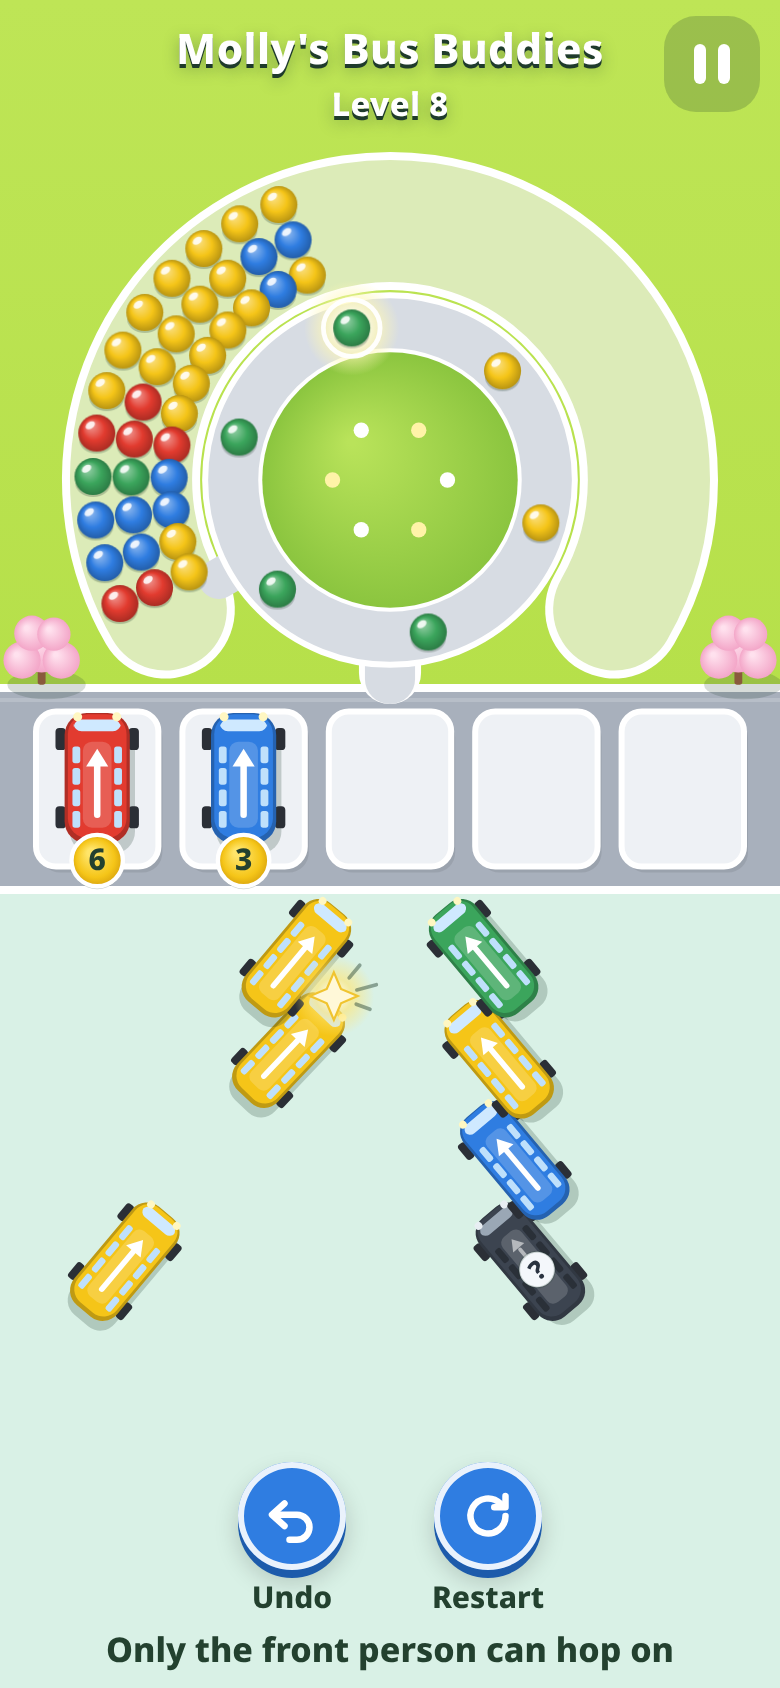
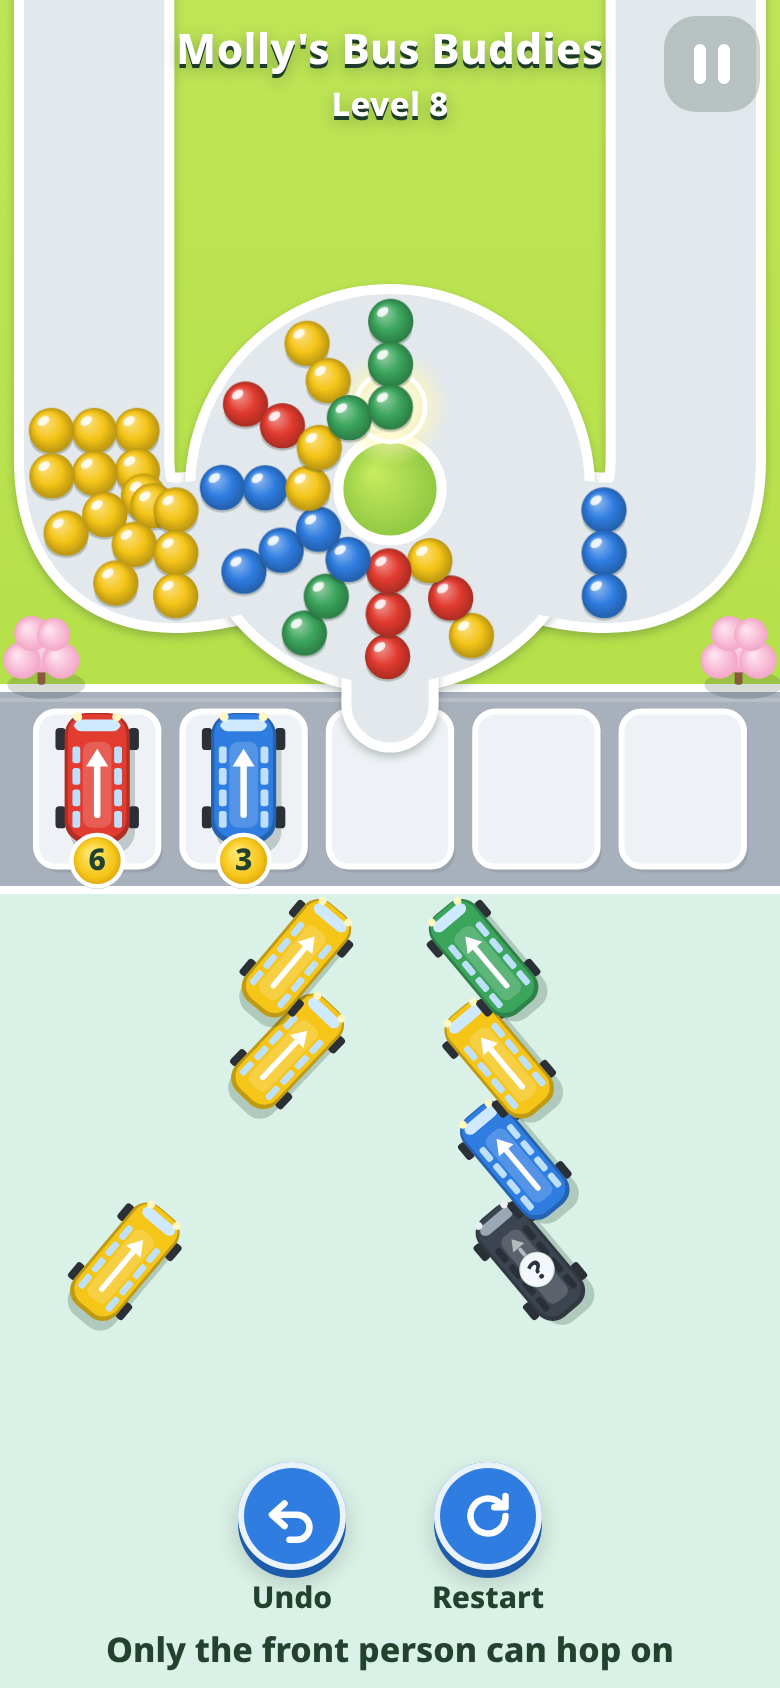
Feeder and ring look like the original: two side feeders, 3-wide track, radial rows, exit to bays; SW cache v3

Changed region(s): [[0.0, 0.0, 0.9846, 0.4313], [0.3692, 0.5545, 0.4923, 0.6161], [0.3077, 0.6161, 0.3385, 0.6777]]

diff --git a/js/render.js b/js/render.js
@@ -45,28 +45,50 @@ export function computeLayout(w, h, insets, peopleCount = 30) {
     L.car = { x: pw + 10, y: st + 74, w: w - pw - 20 - insets.right, h: h - st - 74 - ctrlH };
     L.hudBottom = st + 80;
   }
-  // Loop + queue geometry inside the grass band.
+  // Feeder + ring geometry inside the grass band, after the reference video: two
+  // feeder channels come down from the top edge on the left and right, curve in like
+  // a big U and merge into a thick ring (three people wide) round a small grass hole.
+  // The ring opens at the bottom onto the bay road.
   const g = L.grass;
-  const top = L.hudBottom + 4;
-  const bottom = g.y + g.h - 10;
-  const Ruo = Math.max(70, Math.min(g.w / 2 - 30, (bottom - top - 16) / 1.5));
-  const br = clamp(Ruo * 0.058, 5, 13);
-  const laneW = br * 2.05;
-  const lanes = 3;              // people stand three abreast in the queue channel
-  const step = br * 2.05;       // spacing between ranks along the channel
+  const top = L.hudBottom + 2;
+  const bottom = g.y + g.h - 4;
+  const Ro = clamp(Math.min((bottom - top) / 2, g.w * 0.25), 70, 200);
+  const trackW = Ro * 0.72; // small hole, thick ring, as in the reference
+  const Ri = Ro - trackW;
+  const lanes = 3;
+  const laneW = (trackW - 6) / lanes;
+  const br = clamp(laneW * 0.53, 5, 24); // packed shoulder to shoulder, like the reference crowd
+  const step = laneW;
   const cx = g.x + g.w / 2;
-  const cy = top + Ruo;
-  const RuIn = Ruo - lanes * laneW - 4;
-  const trackW = br * 2.7;
-  const R = RuIn - 8 - trackW / 2;
-  L.island = { cx, cy, R, islandR: R - trackW / 2 - 2, trackW, Ruo, RuIn, lanes, laneW };
+  const cy = bottom - Ro;
+  const Rm = (Ro + Ri) / 2;
+  L.island = { cx, cy, Ro, Ri, Rm, trackW, lanes, laneW, R: Rm, islandR: Ri };
   L.br = br; L.step = step;
-  L.door = { x: cx, y: cy + R };
+  // ring lanes: inner to outer; ranks are spaced so the inner lane is packed
+  L.ringR = [0, 1, 2].map((k) => Ri + 3 + laneW * (k + 0.5));
+  L.ringStepDeg = (step / L.ringR[0]) * (180 / Math.PI);
+  L.door = { x: cx, y: cy + Ro - laneW * 0.4 };
   L.laneBottom = { x: cx, y: L.road.y + 6 };
-  // Queue ranks follow the horseshoe from 8 o'clock (150°) clockwise over the top to 4 o'clock (390°).
-  const midR = (RuIn + 2 + Ruo - 2) / 2;
-  L.queueRanks = Math.floor((rad(240) * midR) / step);
-  L.queueGeom = { cx, cy, r0: RuIn + 2 + laneW / 2, midR };
+  // Feeder arms. Centre line from where it meets the ring back up past the top edge.
+  const armW = trackW;
+  const spread = Math.min(g.w / 2 - armW / 2 - 12, Ro * 2.05);
+  L.arms = [-1, 1].map((side) => {
+    const a = rad(side < 0 ? 160 : 20);
+    const J = { x: cx + Rm * Math.cos(a), y: cy + Rm * Math.sin(a) };
+    const inward = { x: -Math.cos(a), y: -Math.sin(a) };
+    const A = { x: cx + side * spread, y: cy - Ro * 0.15 };
+    const k = Math.hypot(A.x - J.x, A.y - J.y) * 0.55;
+    const P1 = { x: J.x - inward.x * k, y: J.y - inward.y * k }, P2 = { x: A.x, y: A.y + k };
+    const pts = [];
+    for (let i = 0; i <= 40; i++) {
+      const u = i / 40, v = 1 - u;
+      pts.push({ x: v * v * v * J.x + 3 * v * v * u * P1.x + 3 * v * u * u * P2.x + u * u * u * A.x, y: v * v * v * J.y + 3 * v * v * u * P1.y + 3 * v * u * u * P2.y + u * u * u * A.y });
+    }
+    pts.push({ x: A.x, y: g.y - 900 });
+    const cum = [0];
+    for (let i = 1; i < pts.length; i++) cum.push(cum[i - 1] + Math.hypot(pts[i].x - pts[i - 1].x, pts[i].y - pts[i - 1].y));
+    return { side, pts, cum, J, A, w: armW };
+  });
   // Bays
   const rd = L.road;
   const usable = rd.w - 24;
@@ -101,19 +123,31 @@ export function slotPos(L, slotId) {
   return { x: L.car.x + s.x * L.car.w, y: L.car.y + s.y * L.car.h, angle: s.angle };
 }
 
-export function queuePoint(L, i) {
-  const { cx, cy, r0, midR } = L.queueGeom;
-  const lanes = L.island.lanes;
-  let rank = Math.floor(i / lanes), lane = i % lanes;
-  if (rank >= L.queueRanks) { rank = L.queueRanks - 1; lane = lanes - 1; }
-  const a = rad(150 + 1.2 + ((rank + 0.5) * L.step * 180) / (Math.PI * midR));
-  const r = r0 + lane * L.island.laneW;
-  return { x: cx + r * Math.cos(a), y: cy + r * Math.sin(a) };
+/** Point at distance s back from the ring along an arm's centre line, offset sideways. */
+function armXY(arm, s, off) {
+  const { pts, cum } = arm;
+  let i = 1;
+  while (i < pts.length - 1 && cum[i] < s) i++;
+  const a = pts[i - 1], b = pts[i];
+  const seg = cum[i] - cum[i - 1] || 1;
+  const u = clamp((s - cum[i - 1]) / seg, 0, 1);
+  const dx = (b.x - a.x) / seg, dy = (b.y - a.y) / seg;
+  return { x: a.x + (b.x - a.x) * u - dy * off, y: a.y + (b.y - a.y) * u + dx * off };
 }
 
-export function loopXY(L, angleDeg) {
-  const { cx, cy, R } = L.island;
-  return { x: cx + R * Math.cos(rad(angleDeg)), y: cy + R * Math.sin(rad(angleDeg)) };
+/** Where the j-th waiting person in a feeder arm stands (0 = front, nearest the ring). */
+export function queuePoint(L, arm, j) {
+  const A = L.arms[arm];
+  const rank = Math.floor(j / L.island.lanes), lane = j % L.island.lanes;
+  const off = (lane - 1) * L.island.laneW * A.side * -1;
+  // the front rank stands just outside the ring wall, ready to step on
+  return armXY(A, L.island.trackW * 0.5 + 4 + (rank + 0.5) * L.step, off);
+}
+
+/** A point on the ring at a given radius (default: the middle lane). */
+export function loopXY(L, angleDeg, r = L.ringR[1]) {
+  const { cx, cy } = L.island;
+  return { x: cx + r * Math.cos(rad(angleDeg)), y: cy + r * Math.sin(rad(angleDeg)) };
 }
 
 /** Hit test parked buses: returns id of the closest bus whose (expanded) body contains the point. */
@@ -380,42 +414,31 @@ export function drawBackground(ctx, L) {
     ctx.fillStyle = P.bay; roundRect(ctx, b.x, b.y, b.w, b.h, 10); ctx.fill();
     ctx.lineWidth = 3; ctx.strokeStyle = P.bayStroke; ctx.stroke();
   }
-  // island, loop track, queue channel, boarding lane
-  const { cx, cy, R, islandR, trackW, Ruo, RuIn } = L.island;
-  // lane
-  ctx.fillStyle = "#ffffff";
-  const lw = trackW + 6;
-  roundRect(ctx, cx - lw / 2, cy + R - 4, lw, L.laneBottom.y - (cy + R) + 4, lw / 2); ctx.fill();
-  ctx.fillStyle = "#D7DCE3";
-  roundRect(ctx, cx - trackW / 2, cy + R, trackW, L.laneBottom.y - (cy + R), trackW / 2); ctx.fill();
-  // queue channel (horseshoe from 150° to 30° over the top)
-  ctx.lineCap = "round";
-  ctx.strokeStyle = "#ffffff"; ctx.lineWidth = Ruo - RuIn + 8;
-  ctx.beginPath(); ctx.arc(cx, cy, (Ruo + RuIn) / 2, rad(150), rad(390)); ctx.stroke();
-  ctx.strokeStyle = P.channel; ctx.lineWidth = Ruo - RuIn;
-  ctx.beginPath(); ctx.arc(cx, cy, (Ruo + RuIn) / 2, rad(150), rad(390)); ctx.stroke();
-  // short join from queue front to the loop at 8 o'clock
-  ctx.strokeStyle = "#D7DCE3"; ctx.lineWidth = trackW * 0.8;
-  ctx.beginPath();
-  ctx.moveTo(cx + RuIn * Math.cos(rad(150)), cy + RuIn * Math.sin(rad(150)));
-  ctx.lineTo(cx + R * Math.cos(rad(150)), cy + R * Math.sin(rad(150))); ctx.stroke();
-  // loop track
-  ctx.strokeStyle = "#ffffff"; ctx.lineWidth = trackW + 6;
-  ctx.beginPath(); ctx.arc(cx, cy, R, 0, Math.PI * 2); ctx.stroke();
-  ctx.strokeStyle = "#D7DCE3"; ctx.lineWidth = trackW;
-  ctx.beginPath(); ctx.arc(cx, cy, R, 0, Math.PI * 2); ctx.stroke();
-  // island
-  const ig = ctx.createRadialGradient(cx - islandR * 0.3, cy - islandR * 0.3, 2, cx, cy, islandR);
-  ig.addColorStop(0, "#B9E35A"); ig.addColorStop(1, P.grassDeep);
-  ctx.fillStyle = ig; ctx.beginPath(); ctx.arc(cx, cy, islandR, 0, Math.PI * 2); ctx.fill();
-  // small flower bed on the island
-  for (let i = 0; i < 6; i++) {
-    const a = (i / 6) * Math.PI * 2;
-    ctx.fillStyle = i % 2 ? "#fff3a8" : "#ffffff";
-    ctx.beginPath(); ctx.arc(cx + Math.cos(a) * islandR * 0.45, cy + Math.sin(a) * islandR * 0.45, Math.max(2, islandR * 0.06), 0, Math.PI * 2); ctx.fill();
-  }
+  // feeder arms + ring + exit stub, drawn as one shape: white walls first, then the floor
+  const { cx, cy, Ro, Ri, Rm, trackW } = L.island;
+  const paths = (c) => {
+    for (const arm of L.arms) {
+      c.beginPath(); c.moveTo(arm.pts[0].x, arm.pts[0].y);
+      for (const q of arm.pts) c.lineTo(q.x, q.y);
+      c.lineWidth = arm.w + c.__extra; c.stroke();
+    }
+    c.beginPath(); c.arc(cx, cy, Rm, 0, Math.PI * 2); c.lineWidth = trackW + c.__extra; c.stroke();
+    c.beginPath(); c.moveTo(cx, cy + Rm); c.lineTo(cx, L.laneBottom.y); c.lineWidth = trackW * 0.55 + c.__extra; c.stroke();
+  };
+  ctx.save();
+  ctx.lineCap = "round"; ctx.lineJoin = "round";
+  ctx.shadowColor = "rgba(31,59,44,.28)"; ctx.shadowBlur = 8; ctx.shadowOffsetY = 4;
+  ctx.strokeStyle = "#FFFFFF"; ctx.__extra = 10; paths(ctx);
+  ctx.shadowColor = "transparent";
+  ctx.strokeStyle = "#E3E8EC"; ctx.__extra = 0; paths(ctx);
+  ctx.restore();
+  // the hole in the middle of the ring: grass with a white rim
+  ctx.fillStyle = "#FFFFFF"; ctx.beginPath(); ctx.arc(cx, cy, Ri + 1, 0, Math.PI * 2); ctx.fill();
+  const ig = ctx.createRadialGradient(cx - Ri * 0.3, cy - Ri * 0.3, 2, cx, cy, Ri);
+  ig.addColorStop(0, "#C4EA5E"); ig.addColorStop(1, P.grassDeep);
+  ctx.fillStyle = ig; ctx.beginPath(); ctx.arc(cx, cy, Ri - 4, 0, Math.PI * 2); ctx.fill();
   // blossom trees at each end of the road
-  const ts = clamp(Math.min(L.road.h * 0.26, (rd.w / 2 - Ruo) * 0.7), 12, 40);
+  const ts = clamp(Math.min(L.road.h * 0.26, (rd.w / 2 - Ro) * 0.25), 12, 40);
   drawTree(ctx, rd.x + ts * 0.85, rd.y - ts * 0.7, ts);
   drawTree(ctx, rd.x + rd.w - ts * 0.85, rd.y - ts * 0.7, ts);
 }

diff --git a/js/main.js b/js/main.js
@@ -47,25 +47,42 @@ let loseTimer = 0;
 
 const busy = () => D.events.length > 0 || D.flyers.length > 0 || D.ghosts.some((g) => g.kind === "toBay");
 
+// The ring: people walk three abreast as one crowd, the front rank leading clockwise.
+function ringSpacing(n) { return Math.min(L.ringStepDeg, 360 / Math.max(1, Math.ceil(n / 3))); }
 function loopTarget(i, n) {
-  const sp = 360 / Math.max(n, 1);
-  return 90 - sp * (i + 0.5) + D.phase;
+  return { a: 90 - ringSpacing(n) * (Math.floor(i / 3) + 0.5) + D.phase, r: L.ringR[i % 3] };
+}
+
+// The queue waits in two feeder arms like the reference: colour groups take turns,
+// first group on the left, next on the right, and so on (stable for the whole level).
+let armOfIndex = [];
+function computeArms(level) {
+  armOfIndex = []; let arm = 0;
+  level.queue.forEach((c, i) => { if (i > 0 && c !== level.queue[i - 1]) arm = 1 - arm; armOfIndex.push(arm); });
+}
+function queueTargets() {
+  const n = [0, 0];
+  return D.queue.map((p) => queuePoint(L, p.arm, n[p.arm]++));
 }
 
 function rebuildDisplay() {
   const s = session.state;
-  D.queue = s.queue.map(person);
+  computeArms(session.level);
+  const offset = session.level.queue.length - s.queue.length;
+  D.queue = s.queue.map((c, i) => ({ ...person(c), arm: armOfIndex[offset + i] ?? 0 }));
   D.loop = s.loop.map(person);
   D.persons = new Map();
-  D.queue.forEach((p, i) => { const q = queuePoint(L, i); D.persons.set(p.pid, { mode: "q", x: q.x, y: q.y, a: 0 }); });
-  D.loop.forEach((p, i) => { const a = loopTarget(i, D.loop.length); const q = loopXY(L, a); D.persons.set(p.pid, { mode: "l", x: q.x, y: q.y, a }); });
+  const qt = queueTargets();
+  D.queue.forEach((p, i) => { const q = qt[i]; D.persons.set(p.pid, { mode: "q", x: q.x, y: q.y, a: 0, r: 0 }); });
+  D.loop.forEach((p, i) => { const t = loopTarget(i, D.loop.length); const q = loopXY(L, t.a, t.r); D.persons.set(p.pid, { mode: "l", x: q.x, y: q.y, a: t.a, r: t.r }); });
   D.bays = s.bays.map((b) => (b ? { id: b.id, colour: b.colour, capacity: b.capacity, filled: b.filled, pending: 0 } : null));
   D.ghosts = []; D.flyers = []; D.events = []; D.pendingSettle = false;
 }
 
 function snapPositions() {
-  D.queue.forEach((p, i) => { const q = queuePoint(L, i); Object.assign(D.persons.get(p.pid), { x: q.x, y: q.y }); });
-  D.loop.forEach((p, i) => { const per = D.persons.get(p.pid); per.a = loopTarget(i, D.loop.length); Object.assign(per, loopXY(L, per.a)); });
+  const qt = queueTargets();
+  D.queue.forEach((p, i) => { Object.assign(D.persons.get(p.pid), { x: qt[i].x, y: qt[i].y }); });
+  D.loop.forEach((p, i) => { const per = D.persons.get(p.pid); const t = loopTarget(i, D.loop.length); per.a = t.a; per.r = t.r; Object.assign(per, loopXY(L, per.a, per.r)); });
 }
 
 // ---------------- layout / resize ----------------
@@ -115,6 +132,7 @@ function step(now, dt) {
       const p = D.queue.shift(); D.loop.push(p);
       const per = D.persons.get(p.pid); per.mode = "l";
       per.a = (Math.atan2(per.y - L.island.cy, per.x - L.island.cx) * 180) / Math.PI;
+      per.r = Math.hypot(per.y - L.island.cy, per.x - L.island.cx);
       D.nextAt = now + T.enter * speed;
     } else if (e.type === "board") {
       if (arriving) break;
@@ -153,17 +171,20 @@ function step(now, dt) {
   D.ghosts = D.ghosts.filter((g) => !g.done);
   // people glide towards their places
   const k = RM() ? 1 : 1 - Math.exp(-dt * 9);
+  const qt = queueTargets();
   D.queue.forEach((p, i) => {
-    const per = D.persons.get(p.pid); const q = queuePoint(L, i);
+    const per = D.persons.get(p.pid); const q = qt[i];
     per.x += (q.x - per.x) * k; per.y += (q.y - per.y) * k;
   });
-  const n = D.loop.length, sp = 360 / Math.max(n, 1);
+  const n = D.loop.length, sp = ringSpacing(n);
   D.loop.forEach((p, i) => {
     const per = D.persons.get(p.pid);
-    let delta = (((loopTarget(i, n) - per.a) % 360) + 360) % 360;
+    const tg = loopTarget(i, n);
+    let delta = (((tg.a - per.a) % 360) + 360) % 360;
     if (delta > 360 - 0.75 * sp) delta -= 360;
     per.a += delta * k;
-    const q = loopXY(L, per.a);
+    per.r += (tg.r - per.r) * k;
+    const q = loopXY(L, per.a, per.r);
     per.x = q.x; per.y = q.y;
   });
   // confetti

diff --git a/sw.js b/sw.js
@@ -1,6 +1,6 @@
 // Molly's Bus Buddies service worker: versioned precache, cache-first, offline navigation.
 // Bump VERSION whenever any cached file changes. Regenerate the list with: node tools/write-sw.mjs
-const VERSION = "bus-buddies-v2";
+const VERSION = "bus-buddies-v3";
 const PRECACHE = [
   "./",
   "index.html",

diff --git a/tools/solver-report.md b/tools/solver-report.md
@@ -1,23 +1,23 @@
 # Solver report
 
-Generated by `node tools/solve.mjs` on 26 November 2026 at 21:37 (Europe/London). Rules: v2 (front-of-queue boarding, directional blocking, mystery buses, out-of-room loss). C colours, B buses, D blocking depth, BP fewest bays needed at once, Mys mystery buses, Q colour changes in the queue, M moves.
+Generated by `node tools/solve.mjs` on 26 November 2026 at 21:55 (Europe/London). Rules: v2 (front-of-queue boarding, directional blocking, mystery buses, out-of-room loss). C colours, B buses, D blocking depth, BP fewest bays needed at once, Mys mystery buses, Q colour changes in the queue, M moves.
 
 **Result:** PASS — 12/12 levels solvable.
 
 | Lv | Name | C | B | D | BP | Mys | Q | M | People | Loop | Tempting wrong moves | States | ms |
 |---:|---|---:|---:|---:|---:|---:|---:|---:|---:|---:|---:|---:|---:|
-| 1 | First ride | 2 | 3 | 0 | 1 | 0 | 1 | 3 | 9 | 6 | 0 | 9 | 1 |
-| 2 | The shy bus | 2 | 4 | 1 | 1 | 0 | 0 | 4 | 12 | 6 | 0 | 12 | 0 |
-| 3 | New friends | 3 | 5 | 1 | 2 | 0 | 1 | 5 | 18 | 6 | 0 | 24 | 1 |
-| 4 | Look ahead | 3 | 6 | 2 | 2 | 0 | 1 | 6 | 20 | 6 | 2 | 73 | 1 |
-| 5 | Long bus, short bus | 3 | 7 | 2 | 2 | 0 | 4 | 7 | 31 | 6 | 1 | 60 | 1 |
-| 6 | A new colour | 4 | 8 | 2 | 3 | 1 | 7 | 8 | 31 | 6 | 1 | 461 | 7 |
-| 7 | Busy platform | 4 | 9 | 3 | 3 | 1 | 15 | 9 | 41 | 6 | 1 | 161 | 2 |
-| 8 | The long way out | 4 | 10 | 3 | 3 | 2 | 11 | 10 | 48 | 6 | 3 | 508 | 6 |
-| 9 | Purple arrives | 5 | 11 | 3 | 3 | 2 | 15 | 11 | 55 | 6 | 6 | 3126 | 43 |
-| 10 | Four at once | 5 | 12 | 4 | 4 | 3 | 13 | 12 | 60 | 6 | 9 | 827 | 6 |
-| 11 | Pink too | 6 | 13 | 4 | 4 | 3 | 13 | 13 | 55 | 6 | 8 | 11671 | 102 |
-| 12 | Molly's master plan | 6 | 14 | 4 | 4 | 4 | 18 | 14 | 56 | 6 | 17 | 7400 | 54 |
+| 1 | First ride | 2 | 3 | 0 | 1 | 0 | 1 | 3 | 9 | 24 | 0 | 9 | 1 |
+| 2 | The shy bus | 2 | 4 | 1 | 1 | 0 | 0 | 4 | 12 | 24 | 0 | 12 | 0 |
+| 3 | New friends | 3 | 5 | 1 | 2 | 0 | 1 | 5 | 18 | 24 | 0 | 24 | 1 |
+| 4 | Look ahead | 3 | 6 | 2 | 2 | 0 | 1 | 6 | 20 | 24 | 2 | 73 | 1 |
+| 5 | Long bus, short bus | 3 | 7 | 2 | 2 | 0 | 4 | 7 | 31 | 24 | 1 | 60 | 2 |
+| 6 | A new colour | 4 | 8 | 2 | 3 | 1 | 7 | 8 | 31 | 24 | 1 | 461 | 7 |
+| 7 | Busy platform | 4 | 9 | 3 | 3 | 1 | 15 | 9 | 41 | 24 | 1 | 161 | 2 |
+| 8 | The long way out | 4 | 10 | 3 | 3 | 2 | 11 | 10 | 48 | 24 | 3 | 508 | 6 |
+| 9 | Purple arrives | 5 | 11 | 3 | 3 | 2 | 15 | 11 | 55 | 24 | 6 | 3126 | 55 |
+| 10 | Four at once | 5 | 12 | 4 | 4 | 3 | 13 | 12 | 60 | 24 | 9 | 827 | 7 |
+| 11 | Pink too | 6 | 13 | 4 | 4 | 3 | 13 | 13 | 55 | 24 | 8 | 11671 | 101 |
+| 12 | Molly's master plan | 6 | 14 | 4 | 4 | 4 | 18 | 14 | 56 | 24 | 17 | 7400 | 52 |
 
 ## Per level
 
